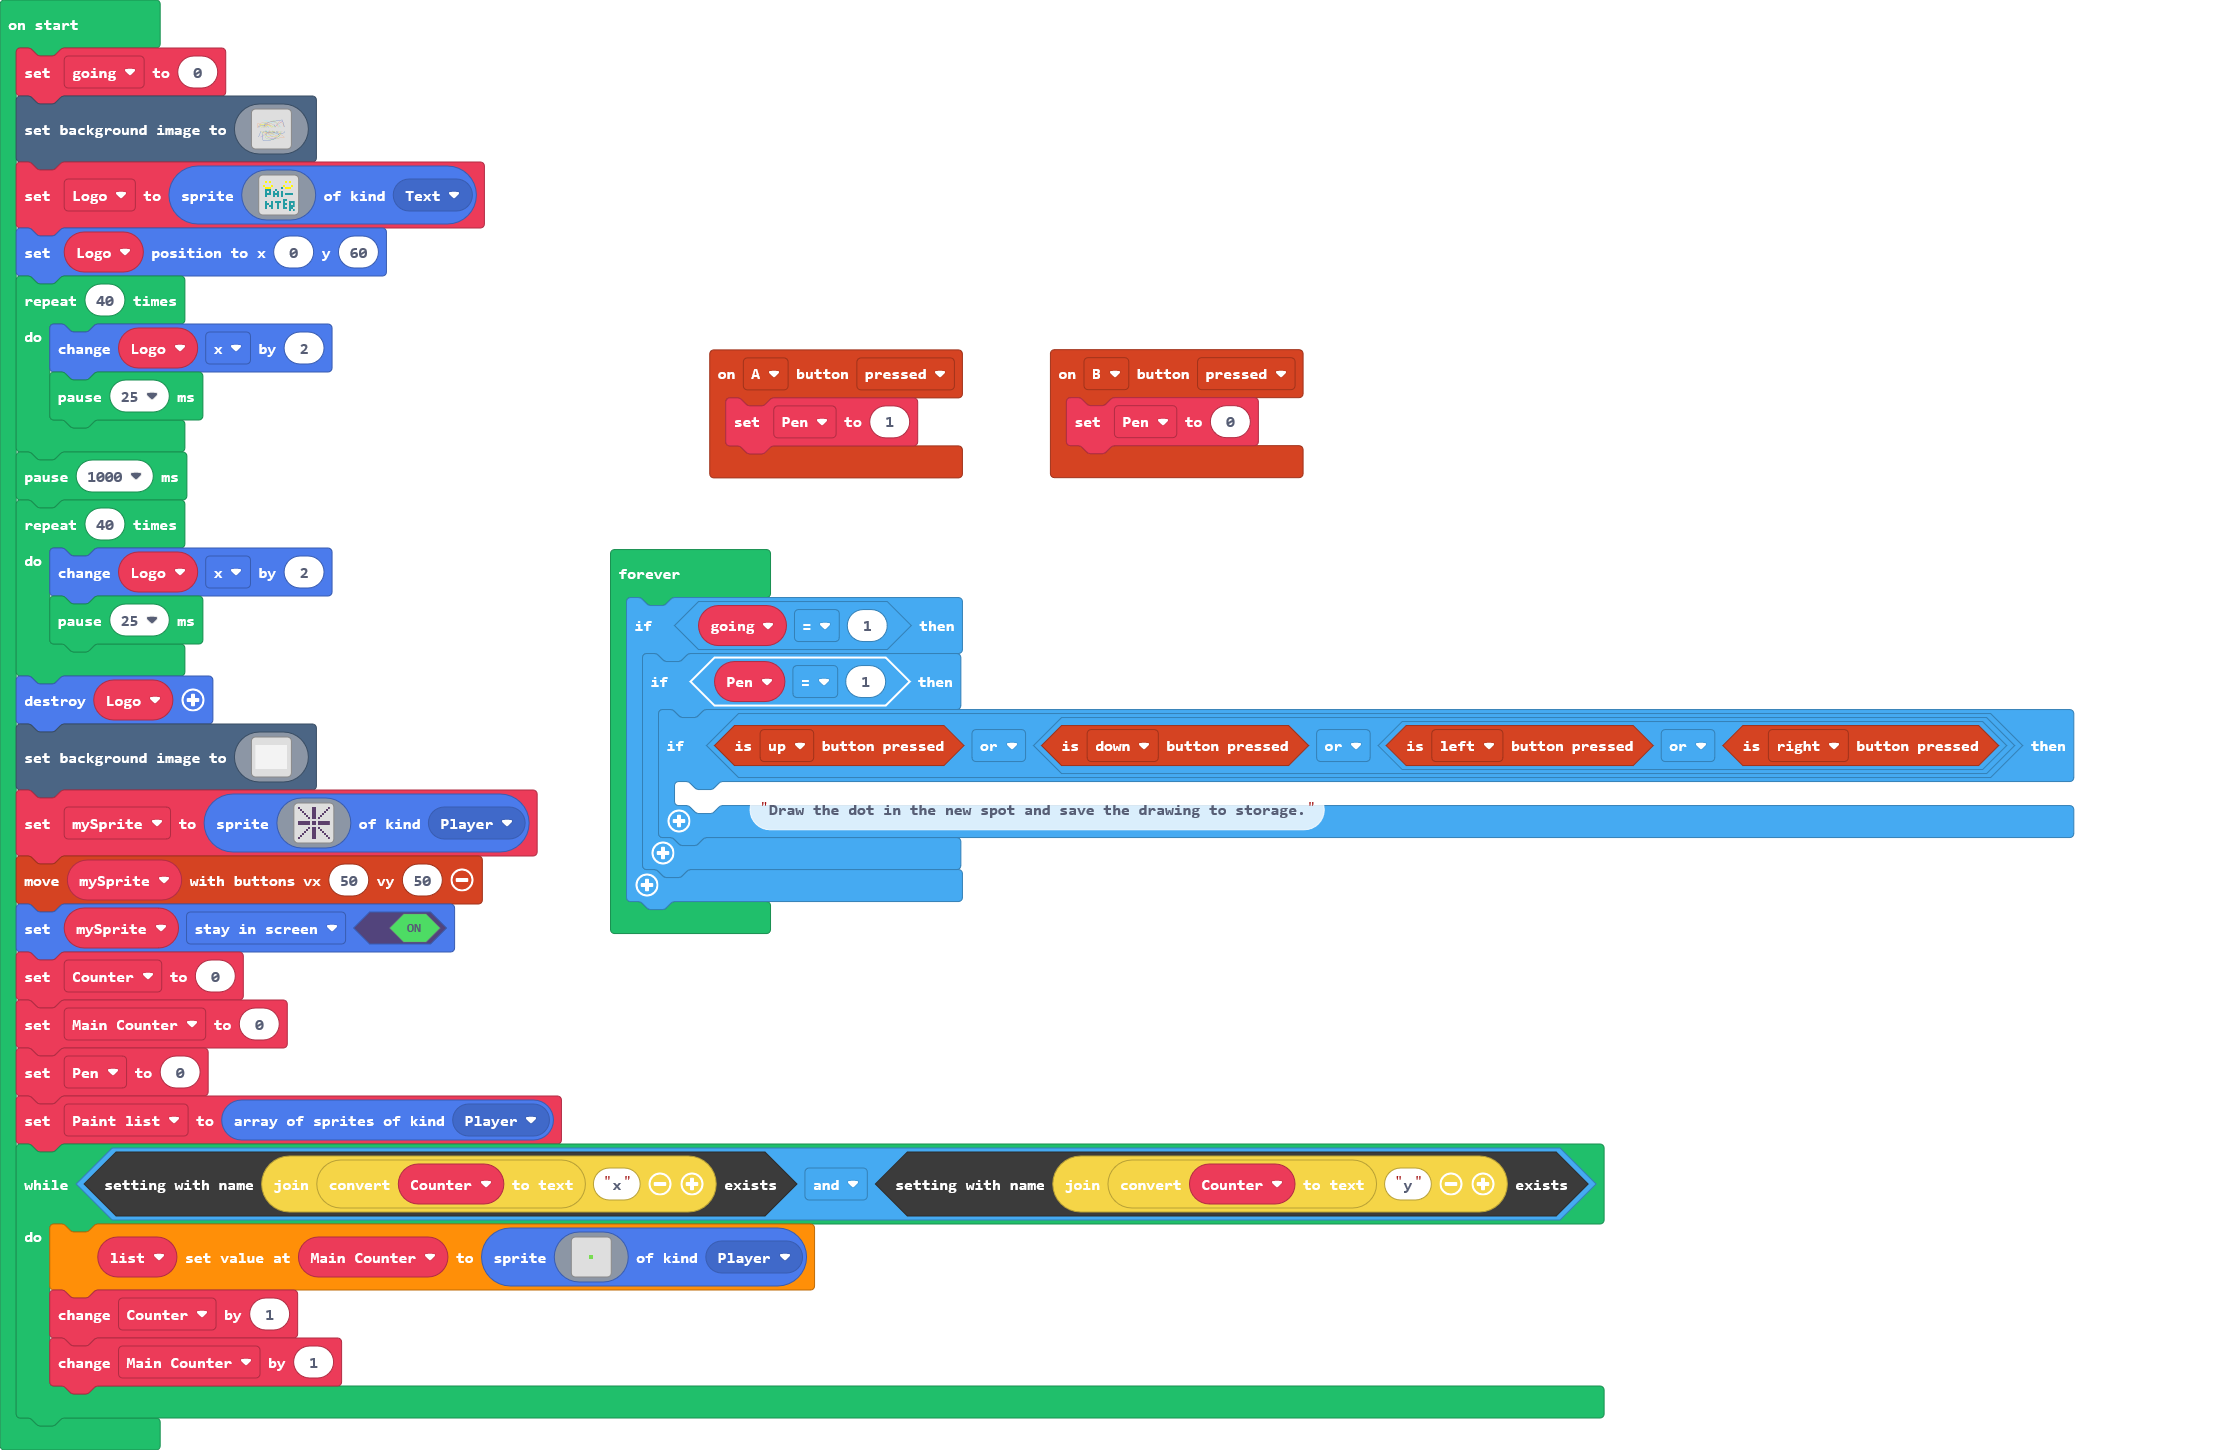
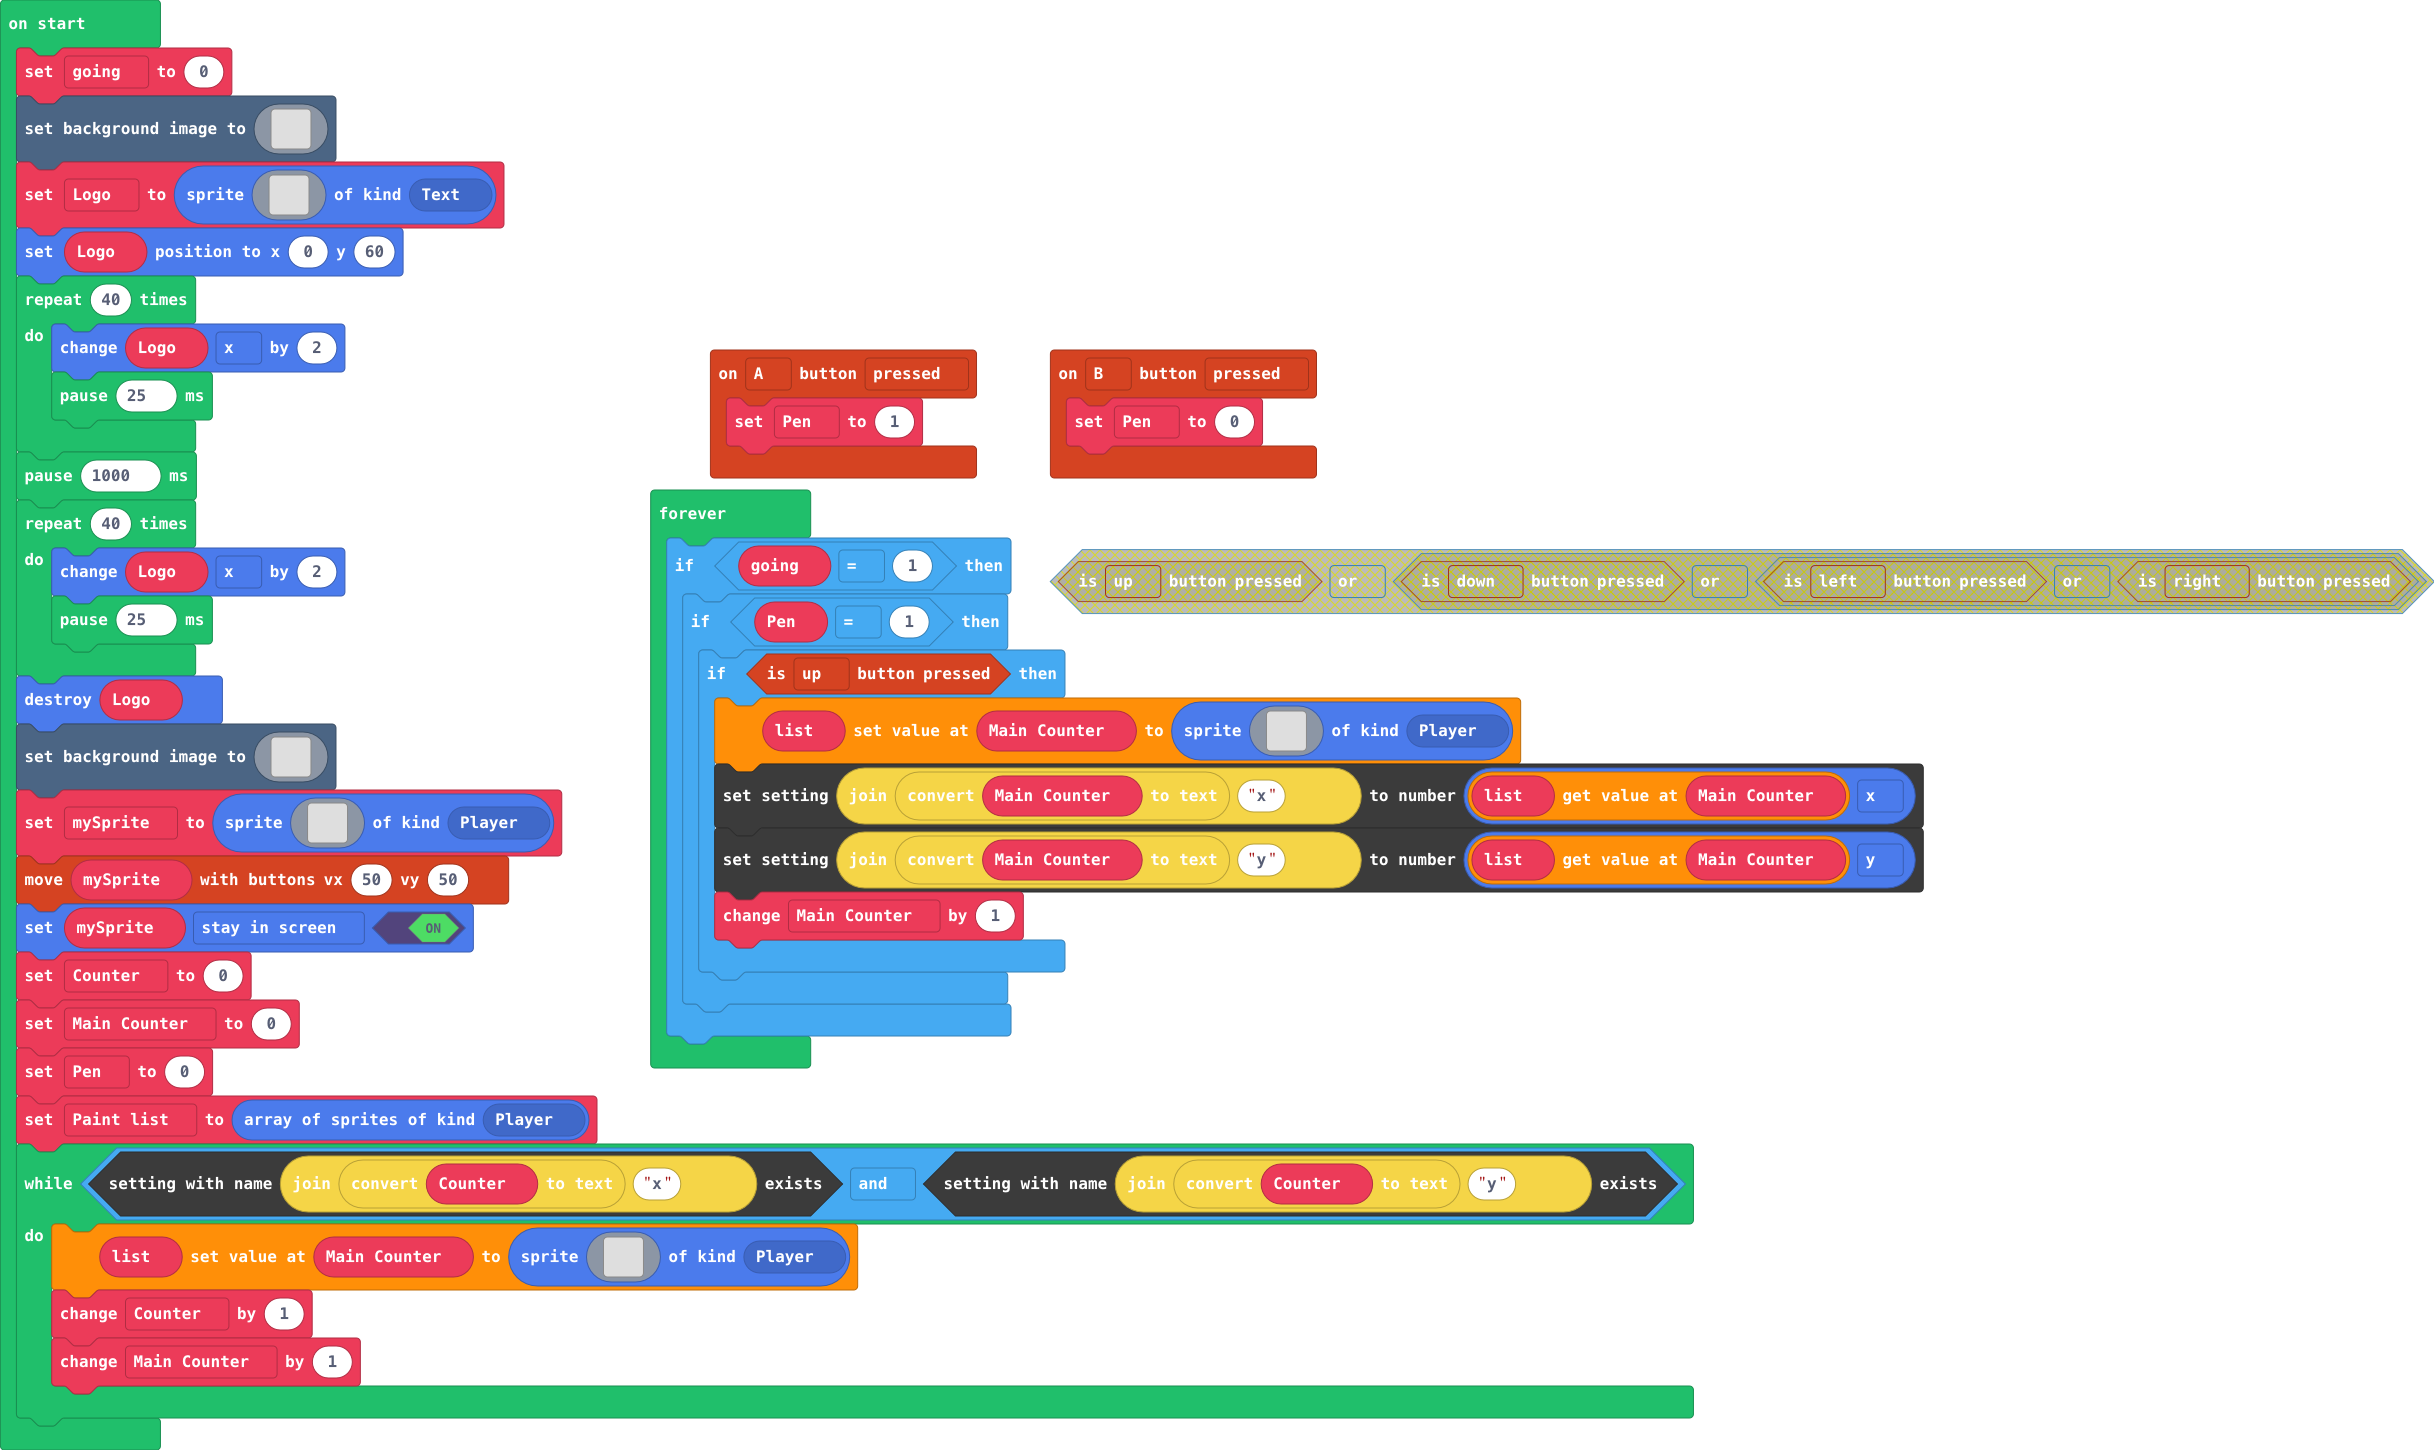
Update main.blocks, main.ts

Changed region(s): [[0.0, 0.0, 1.0, 0.9621], [0.681, 0.931, 0.7429, 0.9931], [0.0619, 0.9931, 0.0929, 1.0]]

diff --git a/main.ts b/main.ts
@@ -7,6 +7,7 @@ controller.B.onEvent(ControllerButtonEvent.Pressed, function () {
 controller.A.onEvent(ControllerButtonEvent.Pressed, function () {
     Pen = 1
 })
+let list: Sprite[] = []
 let Pen = 0
 let going = 0
 scene.setBackgroundImage(img`
@@ -307,7 +308,6 @@ let Main_Counter = 0
 Pen = 0
 let Paint_list = sprites.allOfKind(SpriteKind.Player)
 while (blockSettings.exists("" + convertToText(Counter) + "x") && blockSettings.exists("" + convertToText(Counter) + "y")) {
-    let list: Sprite[] = []
     list[Main_Counter] = sprites.create(img`
         . . . . . . . . . . . . . . . . 
         . . . . . . . . . . . . . . . . 
@@ -332,8 +332,28 @@ while (blockSettings.exists("" + convertToText(Counter) + "x") && blockSettings.
 forever(function () {
     if (going == 1) {
         if (Pen == 1) {
-            if (controller.up.isPressed() || (controller.down.isPressed() || (controller.left.isPressed() || controller.right.isPressed()))) {
-            	
+            if (controller.up.isPressed()) {
+                list[Main_Counter] = sprites.create(img`
+                    . . . . . . . . . . . . . . . . 
+                    . . . . . . . . . . . . . . . . 
+                    . . . . . . . . . . . . . . . . 
+                    . . . . . . . . . . . . . . . . 
+                    . . . . 7 7 7 7 7 7 7 7 7 . . . 
+                    . . . . 7 7 7 7 7 7 7 7 7 . . . 
+                    . . . . 7 7 7 7 7 7 7 7 7 . . . 
+                    . . . . 7 7 7 7 7 7 7 7 7 . . . 
+                    . . . . 7 7 7 7 7 7 7 7 7 . . . 
+                    . . . . 7 7 7 7 7 7 7 7 7 . . . 
+                    . . . . 7 7 7 7 7 7 7 7 7 . . . 
+                    . . . . 7 7 7 7 7 7 7 7 7 . . . 
+                    . . . . . . . . . . . . . . . . 
+                    . . . . . . . . . . . . . . . . 
+                    . . . . . . . . . . . . . . . . 
+                    . . . . . . . . . . . . . . . . 
+                    `, SpriteKind.Player)
+                blockSettings.writeNumber("" + convertToText(Main_Counter) + "x", list[Main_Counter].x)
+                blockSettings.writeNumber("" + convertToText(Main_Counter) + "y", list[Main_Counter].y)
+                Main_Counter += 1
             }
         }
     }
